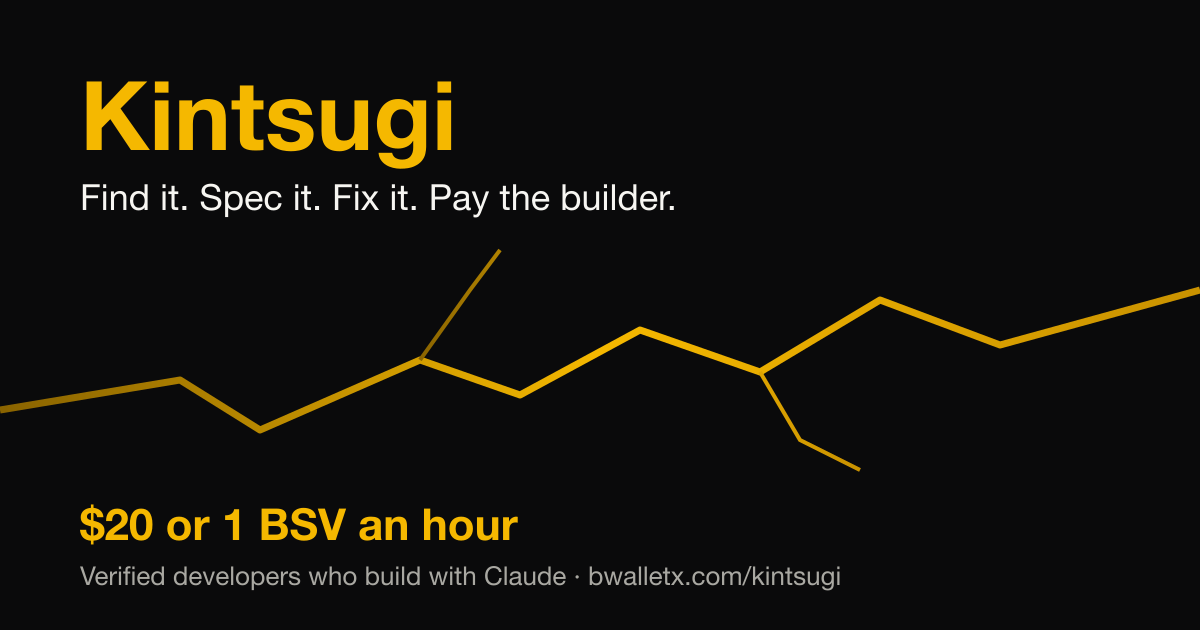
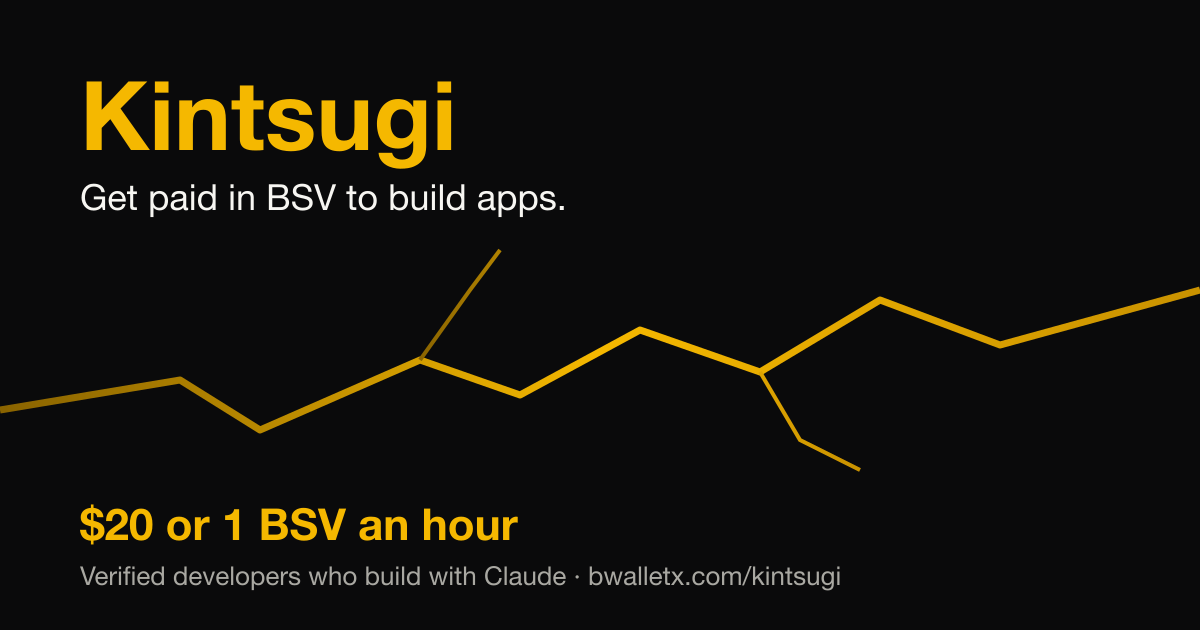
Kintsugi page: reframe as a developer program, triage moves to b

Changed region(s): [[0.0617, 0.2714, 0.555, 0.3317]]

diff --git a/kintsugi.html b/kintsugi.html
@@ -4,21 +4,21 @@
     <meta charset="utf-8" />
     <meta name="viewport" content="width=device-width, initial-scale=1, viewport-fit=cover" />
     <title>Kintsugi · bWalletX</title>
-    <meta name="description" content="Kintsugi finds what is broken in our apps, writes clear tasks, and pays verified developers who build with Claude: $20 or 1 BSV an hour." />
+    <meta name="description" content="Kintsugi: get paid in BSV to build apps. A program for verified developers who build with Claude: $20 or 1 BSV an hour." />
     <link rel="canonical" href="https://bwalletx.com/kintsugi" />
     <meta property="og:type" content="website" />
     <meta property="og:url" content="https://bwalletx.com/kintsugi" />
     <meta property="og:site_name" content="bWalletX" />
-    <meta property="og:title" content="Kintsugi: gold repair for software" />
-    <meta property="og:description" content="Kintsugi finds what is broken in our apps, writes clear tasks, and pays verified developers who build with Claude: $20 or 1 BSV an hour." />
+    <meta property="og:title" content="Kintsugi: get paid in BSV to build apps" />
+    <meta property="og:description" content="Kintsugi: get paid in BSV to build apps. A program for verified developers who build with Claude: $20 or 1 BSV an hour." />
     <meta property="og:image" content="https://bwalletx.com/og-kintsugi-v1.png" />
     <meta property="og:image:width" content="1200" />
     <meta property="og:image:height" content="630" />
-    <meta property="og:image:alt" content="Kintsugi: a gold seam across a black field. Find it. Spec it. Fix it. Pay the builder." />
+    <meta property="og:image:alt" content="Kintsugi: a gold seam across a black field. Get paid in BSV to build apps." />
     <meta name="twitter:card" content="summary_large_image" />
     <meta name="twitter:site" content="@bWalletX" />
-    <meta name="twitter:title" content="Kintsugi: gold repair for software" />
-    <meta name="twitter:description" content="Kintsugi finds what is broken in our apps, writes clear tasks, and pays verified developers who build with Claude: $20 or 1 BSV an hour." />
+    <meta name="twitter:title" content="Kintsugi: get paid in BSV to build apps" />
+    <meta name="twitter:description" content="Kintsugi: get paid in BSV to build apps. A program for verified developers who build with Claude: $20 or 1 BSV an hour." />
     <meta name="twitter:image" content="https://bwalletx.com/og-kintsugi-v1.png" />
     <meta name="theme-color" content="#000000" />
     <link rel="icon" href="/favicon.ico" sizes="48x48" />
@@ -63,37 +63,40 @@
     <script src="/nav.js"></script>
     <main class="ext">
       <p class="meta">Kintsugi (金継ぎ): mending broken pottery with gold, so the repair shows.</p>
-      <h1><b>Kintsugi</b></h1>
-      <p style="font-size:1.15rem">We fix software the same way. Kintsugi finds what is broken or unfinished in our apps, turns each gap into a clear task, and pays a verified developer to fix it. Every repair stays visible.</p>
+      <h1><b>Kintsugi</b>: get paid in BSV to build apps</h1>
+      <p style="font-size:1.15rem">A program for developers who build with Claude. Verify your ID, show your setup, pass one entry task, and take paid work on bWalletX, bChatX and the bApps.</p>
       <div class="cta">
         <a class="btn" href="https://chat.bwalletx.com/u/bwalletx" target="_blank" rel="noopener">Talk to us in bChatX</a>
         <a class="btn alt" href="/bounties">See paid bounties</a>
       </div>
       <hr class="seam" />
 
-      <h2>Two parts, one product</h2>
+      <h2>Who it is for</h2>
+      <p>Developers who already work AI-first with Claude Code and want steady, small, well-defined jobs paid in Bitcoin. You choose which tasks to take and when to work.</p>
+
+      <h2>How work arrives</h2>
       <div class="grid">
-        <div class="card"><h3>The repair engine</h3><p>Scans bWalletX, bChatX and the bApps for broken and unfinished work. Writes each fix as an agent-ready task: what to change, how to test it, how long it should take. Then it reviews the fix.</p></div>
-        <div class="card"><h3>The builder network</h3><p>Developers who are ID-verified, work with Claude, and passed our entry test. They pick a task, build it, open a pull request and get paid when it passes review. Think of it as Uber for developers.</p></div>
+        <div class="card"><h3>From b</h3><p>b reads bug reports and gaps across our apps and turns them into tasks: what to change, how to test it, how long it should take.</p></div>
+        <div class="card"><h3>From bounties</h3><p>People post bounties for features and fixes they want. Each one carries a tag your pull request quotes to claim it.</p></div>
       </div>
 
       <h2>The pay</h2>
       <p class="rate">$20 or 1 BSV an hour</p>
       <p>Up to 24 BSV a day. Each task is priced before you start, from its estimate, and the price is written into the contract. You are paid to your $handle in bWalletX when the work is accepted.</p>
 
-      <h2>Who can build</h2>
+      <h2>Four steps</h2>
       <ol class="steps">
         <li><b>A verified ID.</b> Identity check by Veriff. We keep the result, not your documents.</li>
         <li><b>The right tools.</b> A paid Anthropic Claude plan with Claude Code. No local models, no ChatGPT. Link your GitHub, declare your plan, and your Kintsugi commits carry the <code>Co-Authored-By: Claude</code> line.</li>
         <li><b>The entry test.</b> One real task, done to spec in Claude Code and reviewed by us. Pass it and you are Kintsugi Level 1.</li>
-        <li><b>Certification.</b> Levels go up with accepted work. Level 3 builders review others.</li>
+        <li><b>Get certified.</b> Levels go up with accepted work. Level 3 builders review others.</li>
       </ol>
 
       <h2>Three signatures on every job</h2>
       <div class="grid">
         <div class="card"><h3>The client</h3><p>Wants the work and funds the task.</p></div>
         <div class="card"><h3>The developer</h3><p>Builds it to the spec and opens the pull request.</p></div>
-        <div class="card"><h3>Kintsugi</h3><p>Writes the spec, holds the payment, reviews the work and releases the pay.</p></div>
+        <div class="card"><h3>Kintsugi</h3><p>Checks the spec, holds the payment, reviews the work and releases the pay.</p></div>
       </div>
       <p>All three sign the same contract in bChatX before work starts. It sets the task, the price, the deadline and what counts as done. Delivered work belongs to the client once it is paid for.</p>
 
@@ -108,11 +111,11 @@
         <li class="next">Hourly pricing and held payment for Kintsugi tasks</li>
         <li class="next">Developer and client terms</li>
       </ul>
-      <p>Want to build, or have work that needs fixing? Say hello in the bChatX Lounge and tell us what you do.</p>
+      <p>Want to build? Say hello in the bChatX Lounge and tell us what you do.</p>
       <div class="cta"><a class="btn" href="https://chat.bwalletx.com/u/bwalletx" target="_blank" rel="noopener">Talk to us in bChatX</a></div>
 
       <h2>Open source</h2>
-      <p>The Kintsugi code (repair engine, task templates, review tools) is open source under the <b>Open BSV licence</b>: <a href="https://github.com/b0ase/kintsugi" target="_blank" rel="noopener">github.com/b0ase/kintsugi</a>. Specs and docs are CC BY 4.0.</p>
+      <p>The Kintsugi code (task templates, review tools, bounty sync) is open source under the <b>Open BSV licence</b>: <a href="https://github.com/b0ase/kintsugi" target="_blank" rel="noopener">github.com/b0ase/kintsugi</a>. Specs and docs are CC BY 4.0.</p>
     </main>
     <footer class="foot">
       <div class="wrap foot-in">
